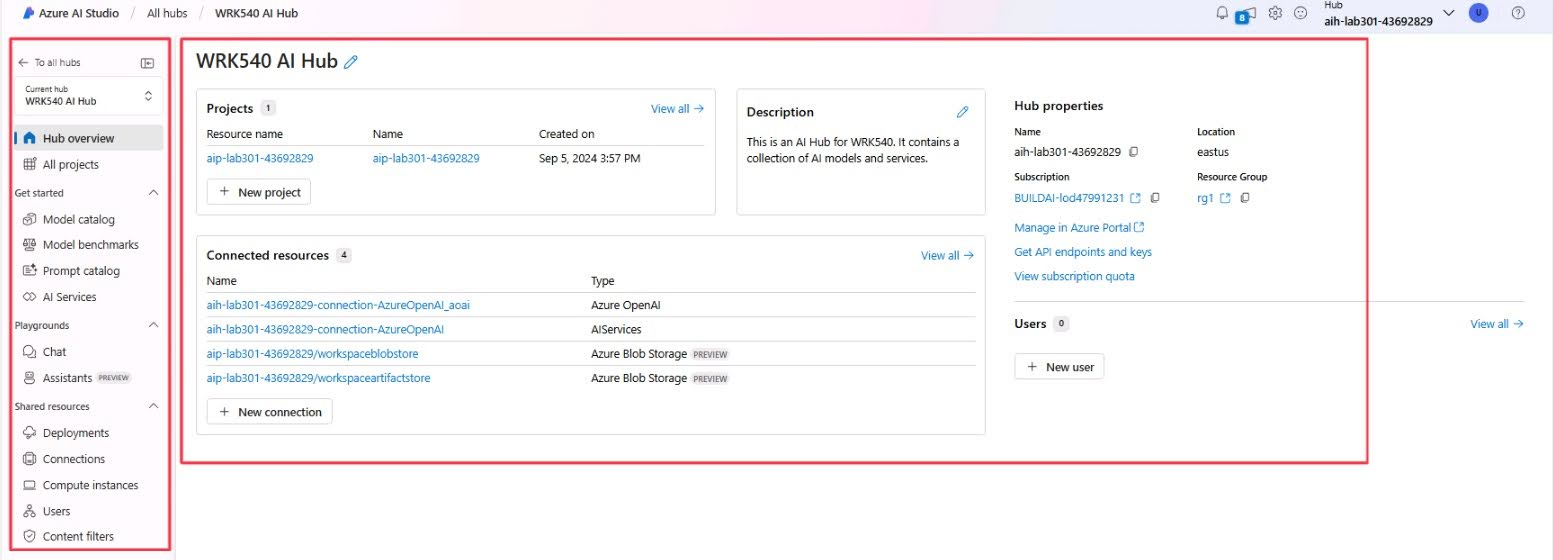
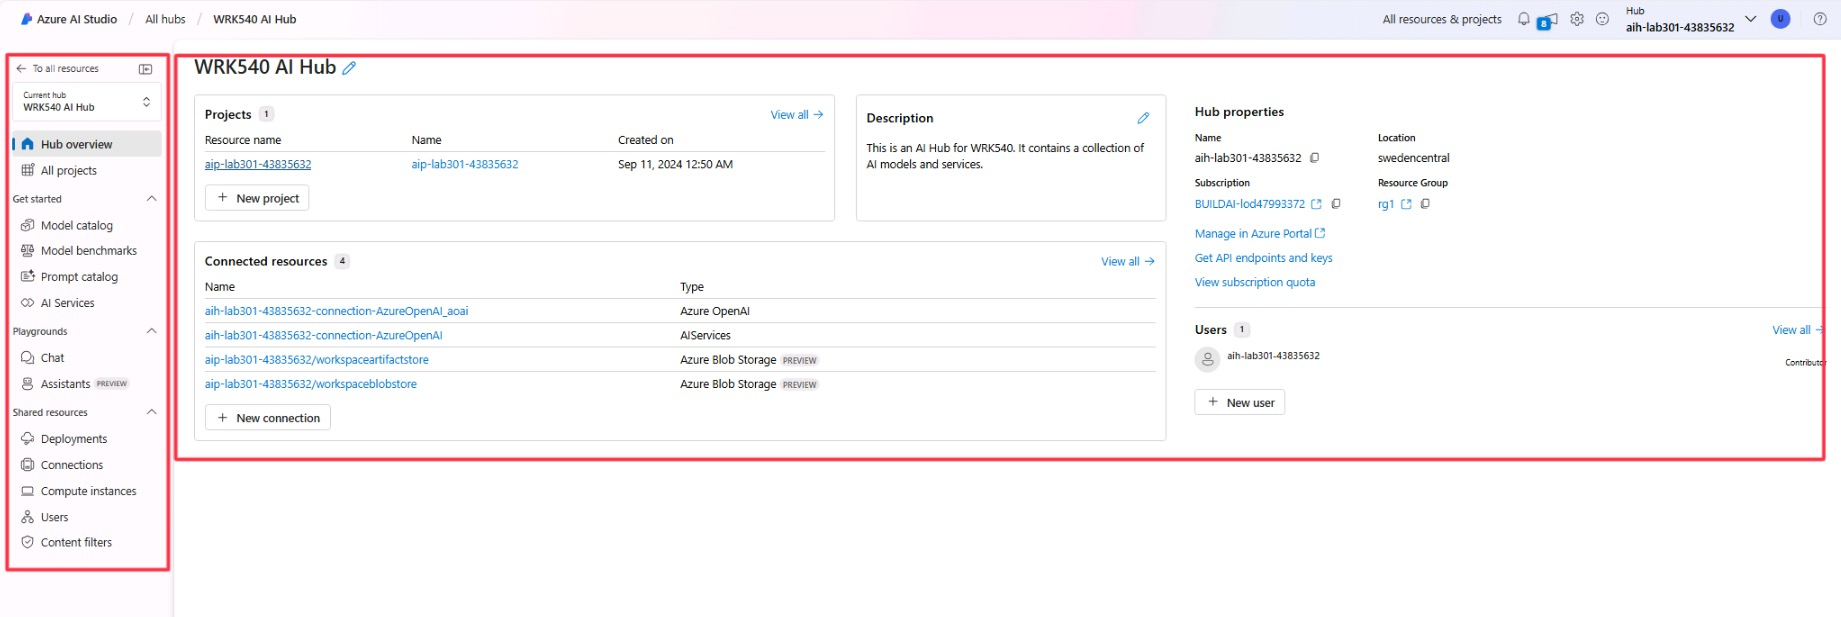
updating ui changes and function calling

diff --git a/lab/Skillable Workshop Instructions/06_Function_Calling.md b/lab/Skillable Workshop Instructions/06_Function_Calling.md
@@ -156,7 +156,7 @@ You are an AI assistant that helps people find products in the Contoso Outdoor C
 
 >[!alert] Before moving on with the next part, delete the existing functions we had created.
 
-1. Delete the existing **find_products** and **tourist_attractions** functions.
+1. Click on **New Assistant** to create a new assistant.
 
 1. Create a new function called **find_products** with the parameters category, activity and cost. 
 
@@ -190,15 +190,15 @@ You are an AI assistant that helps people find products in the Contoso Outdoor C
 3. Navigate to the **Prompt** tab, erase the exisiting instructions and copy the following instructions into the Instructions textbox.
 
   ```
-  You are an AI assistant that helps people find hotels. 
-  In the conversation with the user, your goal is to retrieve the required fields for the function search_hotels.
+  You are an AI assistant that helps people find products. 
+  In the conversation with the user, your goal is to retrieve the required fields for the function find_products.
   ```
 
-2. To test the function we have added, try the prompt below:
+4. To test the function we have added, try the prompt below:
 
    ```I need a warm jacket.```
 
-3. The agent should start asking you about activity category and maximum budget then finally call the function and return the properties in JSON format.
+5. The agent should start asking you about activity category and maximum budget then finally call the function and return the properties in JSON format.
 
 ## Next Steps
 

diff --git a/lab/Skillable Workshop Instructions/01_Set_up.md b/lab/Skillable Workshop Instructions/01_Set_up.md
@@ -30,7 +30,11 @@ For this workshop we will be working on Azure AI Studio, especially focusing on 
 
 ![Azure AI Studio logged in homepage](./Images/ai-studio-hubmanagement.jpg)
 
-2. To begin, navigate to the left-hand sidebar where you will find the **Management** section. Under this section, select **All Hubs.** This action will lead you to a centralized area where all available resources and tools are displayed, giving you an overview of your current hub connections. 
+2. To begin, navigate to the left-hand sidebar where you will find the **Management** section. Under this section, select **All Resources.** This action will lead you to a centralized area where all available resources and tools are displayed, giving you an overview of your current hub connections.
+
+> [NOTE!]
+> In case you can't find the **all Resources** section, click on the **all hubs** section.
+
 3. Next, locate the **WRK540 AI Hub** in the list of available hubs. It is listed under the **"Name"** column. Click on this hub to access its settings and resources.
 
 ![Hub management tab](./Images/ai-studio-hubmanagement-hub.jpg)

diff --git a/lab/Skillable Workshop Instructions/05_AI_Assistants.md b/lab/Skillable Workshop Instructions/05_AI_Assistants.md
@@ -44,9 +44,6 @@ Lastly, we can **Run** the assistant. This means activating an assistant to begi
 
 3. Next, we can provide the Assistant with an **instruction**. Similar to the *System Message* we saw in previous sections, it provides the Assistant with goals to follow. Navigate to the **Prompt** tab and copy the following instructions into the Instructions textbox.
 
-    >[!alert]
-    >If the instruction box is inactive change the browser url from [ai.azure.com](https://ai.azure.com) to [int.ai.azure.com](https://int.ai.azure.com)
-
     ``` 
     You are a sales assistant for Contoso Outdoor. You are polite, professional, helpful and friendly.
 
